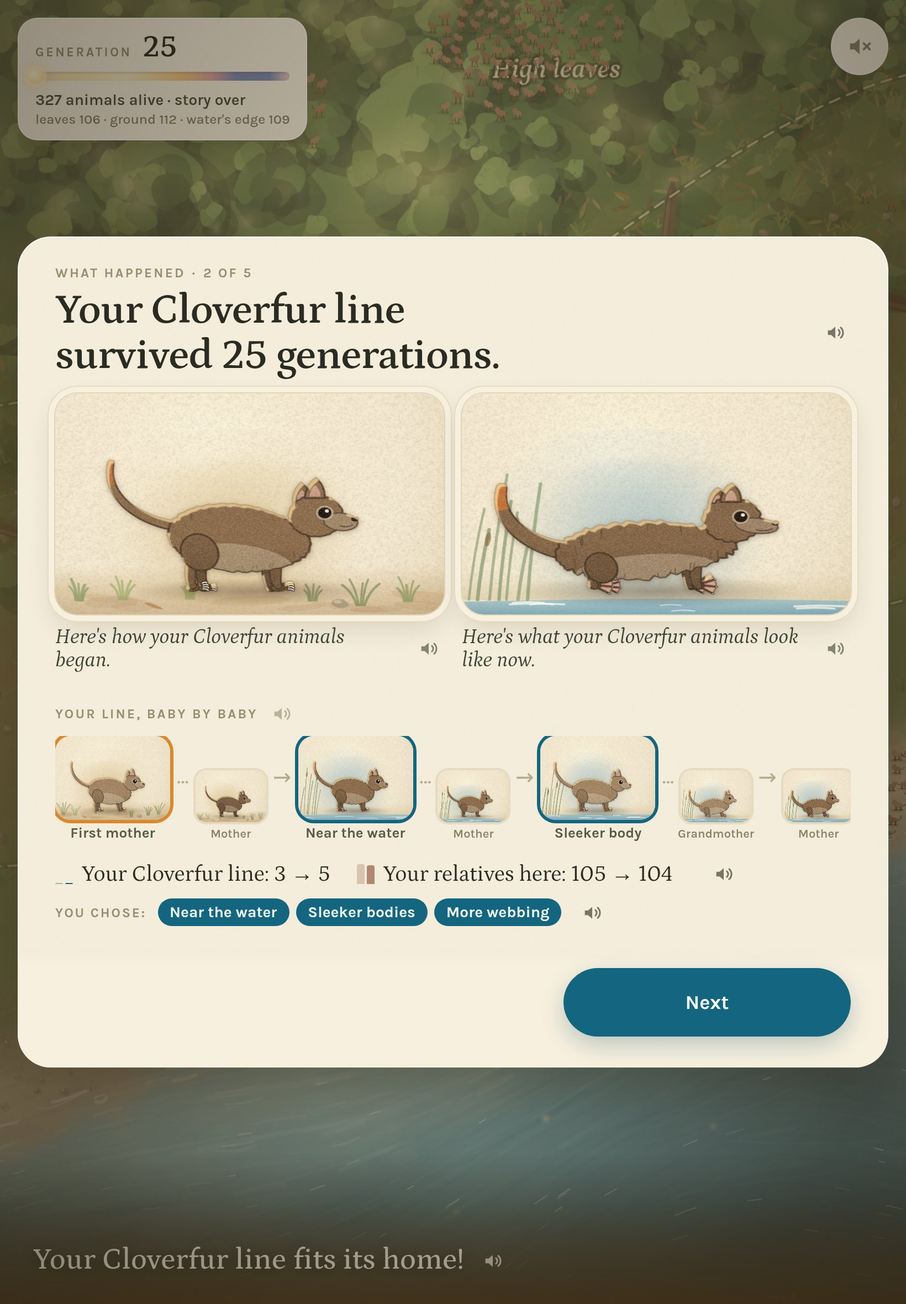
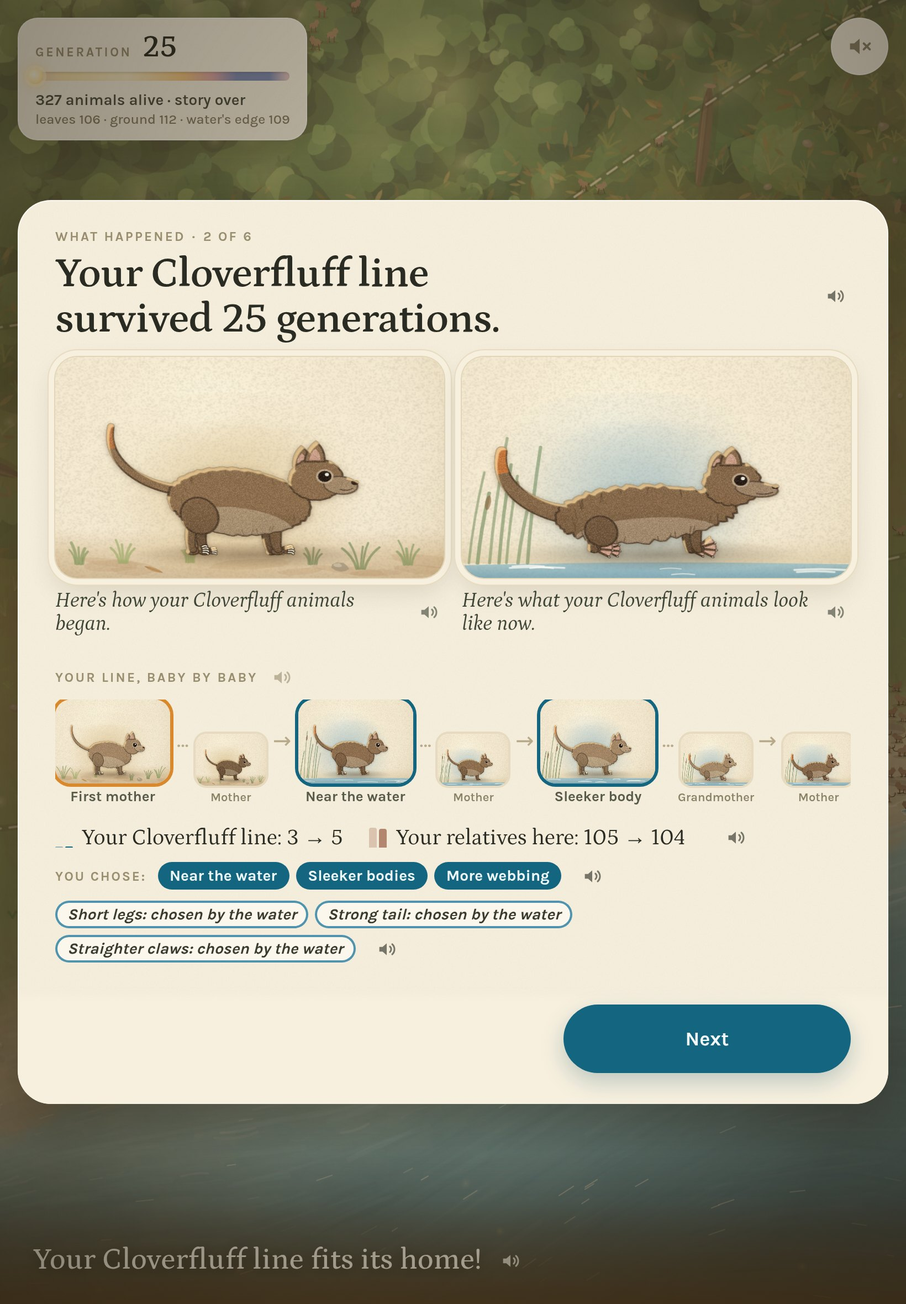
Round 5, Part 4: chosen by the place
Scope decision 75. When a trait the place requires rises in the line
without the child following it (its median APART past where it was at
the place choice, toward the end that helps), it gets a chip in its own
style, outlined in the place's colour: "Strong tail: chosen by the
water" (the trees and the ground likewise). Said once when it first
shows: "The water is choosing too." "Strong tails are winning here."
The win's celebration adds "The water chose a strong tail too."

Measured: a median 2 place chips a story in the leaves and on the
ground, 3 at the water (random child); 1 to 4 for the signature child.
Nothing else changed.

New moment chosen-by-place; win and ending shot again. Tests: game 29
(1 new).

Claude-Session: https://claude.ai/code/session_01GSopAEV6FFZ4i4mLAerJib

diff --git a/game/src/main.js b/game/src/main.js
@@ -30,6 +30,7 @@ import {
 import { familySince, better, differences, placeNow, timeSplit, misfit } from "./groups.js";
 import { isGoodSeed, goodSeed, familiesWithAFuture } from "./seeds.js";
 import { TRAIT_WORDS, averageOf, comparedRows, plainRows } from "./variations.js";
+import { TRAITS } from "./engine.js";
 import { GAP } from "./reveal.js";
 import {
   START_LINE, bornLine, followLine, groupLines, TIMES_UP, optionLine, lastPassed, madeIt, endingTitle, question, choicesHeading,
@@ -41,7 +42,7 @@ import {
   placeLine, ITS_FAMILY, doingLine, DIFFERENT_TITLE, MUCH_LIKE_YOURS, thanYours, misfitLine,
   awayLine, backLine, goBackLine, movingLine, movedLine, IN_TROUBLE, NEARLY_OVER_LINE, soFarTitle, chipWords, fadedLine,
   placeQuestion, PLACE_CARDS, WAIT_GENERATION, PLACE_LABELS, homeLine, homeCounter, WATCH_LINE, homeGoneLine, LOTS_OF_ROOM, fillingLine,
-  firstHereLine, staysLine, CROWDED_GROUND, fitsHome, RESULT_STEP,
+  firstHereLine, staysLine, CROWDED_GROUND, fitsHome, RESULT_STEP, chosenChip, placeChoosing, winningHere,
 } from "./narration.js";
 import { resultFor } from "./win.js";
 import { COLLECTION_TITLE, evolvedLine, IMAGE_CREDITS, GRID, collection, collect, cardEl, pictureOf } from "./collection.js";
@@ -442,6 +443,8 @@ export class Game {
     this.moveToTell = null;
     /** @type {null|number} the line's place filled up, still to be told (scope decision 70) */
     this.fillToTell = null;
+    /** @type {import("./story.js").PlaceChip[]} traits the line's place just chose, still to be told (scope decision 75) */
+    this.placeToTell = [];
     /** @type {Array<{id:number, at:number}>} the line's animals dying now or soon, one by one: the camera stays on each (scope decision 67) */
     this.deathCam = [];
     this.deathCamOn = null;
@@ -550,6 +553,7 @@ export class Game {
     const what = s.afterGeneration(ev);
     if (s.moved) this.moveToTell = s.moved; // told on the next watched generation, or when the fast-forward ends
     if (s.fillingNow) this.fillToTell = s.home.zone; // the line's place filled up: told on arriving, or the next watched generation
+    if (s.placeChoseNow.length) this.placeToTell.push(...s.placeChoseNow); // the place chose a trait: told the next watched generation
     // See, guess, explain: at a follow's result the world waits for a guess (scope decision 60). A line that died out
     // gets its own right there, once its last animals have faded (scope decision 68). Only a new Field Guide discovery
     // is a guess; any other "Why?" is told as a line, with no guess (scope decision 69).
@@ -576,7 +580,7 @@ export class Game {
       const lines = s.told ? s.told : v ? [v.kind === "growing" ? growingLine(v.c.v.group, s.name) : dyingOffLine(v.c.v.group, s.name), ...(q ? [] : [v.reason])] :
         [...groupLines(ev.group, s.noun, [], s.name), ...(q ? [] : s.changeReasons(ev))];
       // The line's place has just filled up: said first, since it is why some die now (scope decision 70).
-      this.say([...this.fillingLines(), ...lines, ...this.moveLines(), ...this.glowLines()], true);
+      this.say([...this.fillingLines(), ...this.placeLines(), ...lines, ...this.moveLines(), ...this.glowLines()], true);
     }
     this.updateHud();
     if (what === "back") this.backing.q = q;
@@ -638,6 +642,16 @@ export class Game {
     const z = this.fillToTell;
     this.fillToTell = null;
     return z === null || z === undefined ? [] : [fillingLine(z)];
+  }
+
+  /**
+   * The line's place chose a trait the child didn't follow (scope decision 75), once, as its chip first shows: "The
+   * water is choosing too." "Strong tails are winning here."
+   */
+  placeLines() {
+    const chosen = this.placeToTell.filter((p) => this.story.placeChips.includes(p));
+    this.placeToTell = [];
+    return chosen.length ? [placeChoosing(chosen[0].zone), winningHere(chosen.map((p) => ({ trait: TRAITS[p.t], dir: p.dir })))] : [];
   }
 
   /** A real move of the family (scope decision 59), once: "Some of your animals are moving to the water's edge." */
@@ -1713,7 +1727,14 @@ export class Game {
         ...picked.map((c) => Object.assign(doc.createElement("span"), { className: c.faded ? "chip faded" : "chip", textContent: c.words })),
         speakerButton(doc, () => `${YOU_CHOSE} ${chips.join(", ")}.`));
     }
-    this.endingResultEl.replaceChildren(result, ...(chips.length ? [chosen] : []));
+    // And what the place chose, in its own style (scope decision 75).
+    const byPlace = s.placeChips.map((p) => chosenChip(TRAITS[p.t], p.dir, p.zone));
+    const placeRow = Object.assign(doc.createElement("div"), { className: "chips" });
+    if (byPlace.length) {
+      placeRow.append(...s.placeChips.map((p, i) => Object.assign(doc.createElement("span"), { className: `chip chosen z${p.zone}`, textContent: byPlace[i] })),
+        speakerButton(doc, () => `${byPlace.join(". ")}.`));
+    }
+    this.endingResultEl.replaceChildren(result, ...(chips.length ? [chosen] : []), ...(byPlace.length ? [placeRow] : []));
     // 2. Your idea.
     this.endingQuestion.set(question(s.outcome, s.noun, s.name));
     this.buildIdea(s);
@@ -2101,7 +2122,7 @@ export class Game {
     if (rowEls.length) rowEls[0].append(speakerButton(this.doc, () => rows.map((r) => `${countLine(r.label, r)}.`).join(" ")));
     this.othersEl.replaceChildren(...rowEls);
     this.othersEl.hidden = !rows.length;
-    this.showSoFar(following && !dying ? s.chips : [], following && !dying ? s.home : null);
+    this.showSoFar(following && !dying ? s.chips : [], following && !dying ? s.home : null, following && !dying ? s.placeChips : []);
     this.showWhyHere(following && !dying ? s.reasons : null);
     if (!s.running) this.barEl.style.width = "0%";
   }
@@ -2148,8 +2169,8 @@ export class Game {
    * the order chosen; a faded one greys out, with its reason as a line below.
    * @param {import("./story.js").Chip[]} chips
    */
-  showSoFar(chips, home = null) {
-    const key = `${this.story?.name}:${this.story?.noun}:${home?.zone}:${chips.map((c) => `${c.v.group}:${c.faded}`).join("|")}`;
+  showSoFar(chips, home = null, placeChips = []) {
+    const key = `${this.story?.name}:${this.story?.noun}:${home?.zone}:${chips.map((c) => `${c.v.group}:${c.faded}`).join("|")}:${placeChips.map((p) => p.t).join(",")}`;
     if (key === this.soFarKey) return;
     this.soFarKey = key;
     const doc = this.doc, el = this.soFarEl;
@@ -2157,12 +2178,15 @@ export class Game {
     if (!chips.length && !home) { el.replaceChildren(); return; }
     const faded = chips.filter((c) => c.faded).map((c) => fadedLine(c.v.group, c.faded));
     const words = soFarTitle(this.story.name, this.story.noun);
-    // The place the child chose comes first (scope decision 70), then each chosen trait.
-    const all = [...(home ? [{ words: PLACE_LABELS[home.zone], faded: null }] : []), ...chips.map((c) => ({ words: chipWords(c.v.group), faded: c.faded }))];
+    // The place the child chose comes first (scope decision 70), then each chosen trait, then what the place chose
+    // (scope decision 75), in their own style.
+    const all = [...(home ? [{ words: PLACE_LABELS[home.zone], faded: null }] : []), ...chips.map((c) => ({ words: chipWords(c.v.group), faded: c.faded })),
+      ...placeChips.map((p) => ({ words: chosenChip(TRAITS[p.t], p.dir, p.zone), faded: null, zone: p.zone }))];
     const title = Object.assign(doc.createElement("div"), { className: "so-far-title", textContent: words });
     title.append(speakerButton(doc, () => `${words}: ${all.map((c) => c.words).join(", ")}.`));
     const row = Object.assign(doc.createElement("div"), { className: "chips" });
-    row.append(...all.map((c) => Object.assign(doc.createElement("span"), { className: c.faded ? "chip faded" : "chip", textContent: c.words })));
+    row.append(...all.map((c) => Object.assign(doc.createElement("span"), {
+      className: c.faded ? "chip faded" : c.zone !== undefined ? `chip chosen z${c.zone}` : "chip", textContent: c.words })));
     el.replaceChildren(title, row, ...faded.map((t) => {
       const p = Object.assign(doc.createElement("p"), { className: "faded-line" });
       p.append(Object.assign(doc.createElement("span"), { className: "text", textContent: t }), speakerButton(doc, () => t));

diff --git a/game/src/story.js b/game/src/story.js
@@ -320,6 +320,13 @@ export class Story {
     this.started = [];
     /** @type {Chip[]} "Your line so far": each chosen trait, and whether it has faded (scope decisions 59 and 68) */
     this.chips = [];
+    /**
+     * @type {PlaceChip[]} "chosen by the place" (scope decision 75): each trait that helps in the line's place and rose
+     * in the line without the child following it
+     */
+    this.placeChips = [];
+    /** @type {PlaceChip[]} those that first showed this generation, for the page to say once */
+    this.placeChoseNow = [];
     /** @type {Map<number, {dir:number, hurt:boolean}>} by trait: the way the line went, and whether it clearly died off that way */
     this.went = new Map();
     /** how many of the line live in each place, a generation ago */
@@ -517,6 +524,7 @@ export class Story {
     this.noticeMoves(mainBefore);
     this.checkHurt();
     this.updateChips();
+    this.notePlaceChoices(ev.generation);
     // The win (scope decision 73): the line fits its home, so no helpful variation is left there. Checked first.
     if (this.home && (this.phase === "watch" || this.phase === "rise") && this.fitsHome()) return this.end("survived", ev.generation, true);
     if (ev.generation >= this.length) return this.end("survived", ev.generation);
@@ -966,6 +974,30 @@ export class Story {
     return out;
   }
 
+  /**
+   * "Chosen by the place" (scope decision 75): a trait that helps in the
+   * line's place, which the child never followed, has risen in the line since
+   * the child chose the place: its median there is APART or more past where it
+   * was then, toward the end that helps. Once shown, it stays, unless the
+   * child follows that trait: then it is the child's chip.
+   */
+  notePlaceChoices(generation) {
+    this.placeChoseNow = [];
+    const h = this.home;
+    if (!h?.form) return;
+    const here = this.lastAnimals.filter((a) => a.zone === h.zone);
+    if (!here.length) return;
+    const form = formOf(here.map((a) => a.genome));
+    form.forEach((f, t) => {
+      const dir = Math.sign(effectIn(t, h.zone));
+      if (!dir || this.chips.some((c) => c.v.t === t) || this.placeChips.some((p) => p.t === t)) return;
+      if ((f.median - h.form[t].median) * dir < APART) return;
+      const chip = { t, dir, zone: h.zone, generation };
+      this.placeChips.push(chip);
+      this.placeChoseNow.push(chip);
+    });
+  }
+
   /** This variation helps in the line's place (scope decision 73). */
   helps(v) { return variationEffect(v.t, v.dir, this.testZone()) > 0; }
 
@@ -1018,8 +1050,10 @@ export class Story {
       sizeAtChoice: ids.length, sizeAtEnd: null, relativesAtChoice: relativesHere, relativesAtEnd: null,
       peak: ids.length, counts: [ids.length], rise: null, result: null, asked: false,
     });
-    // The way the line went on this trait; "Your line so far" gets its chip (a way back replaces the old one).
+    // The way the line went on this trait; "Your line so far" gets its chip (a way back replaces the old one), and a
+    // trait the place chose is the child's now (scope decision 75).
     this.went.set(x.v.t, { dir: x.v.dir, hurt: false });
+    this.placeChips = this.placeChips.filter((p) => p.t !== x.v.t);
     this.chips = this.chips.filter((c) => c.v.t !== x.v.t);
     this.chips.push({ v: x.v, faded: null });
     this.fresh = [];
@@ -1138,6 +1172,8 @@ export class Story {
     this.remember();
     this.placesBefore = this.countPlaces();
     this.formAtPoint = this.lastForm;
+    // The line's usual form at the choice: what the place chooses is measured from here (scope decision 75).
+    this.home.form = this.lastForm;
     this.markNow();
     return this.home;
   }
@@ -1218,6 +1254,7 @@ export class Story {
     this.diedWhy = why.q;
     this.diedSay = why.lines;
     if (home) {
+      this.placeChips = [];
       if (!home.outcome) { home.outcome = "gone"; home.until = generation; }
       home.goneAt = generation;
       this.homeTries.push(home);
@@ -1298,10 +1335,15 @@ export class Story {
  *   reached, the count stopped rising or fell, RISE_MAX generations, fewer than FAST_FROM at the follow (none at all),
  *   some of the line would be crowded out next, the line died out during it, or the story ended
  *
+ * @typedef {Object} PlaceChip a trait the line's place chose (scope decision 75)
+ * @property {number} t @property {number} dir the way it helps there @property {number} zone
+ * @property {number} generation when it first showed
+ *
  * @typedef {Object} Home where the child chose the family will live (scope decision 70)
  * @property {number} zone @property {number} id the baby on the card chosen @property {number} generation when
  * @property {number} mark its number, which marks the relatives it made (HOME_MARK)
  * @property {number} sizeAtChoice the family's animals living there then: the line it began as
+ * @property {Array<{median:number, level:number}>} [form] the line's usual form then
  * @property {number[]} counts the line at the choice and after each generation, until the first follow
  * @property {null|"reached"|"cap"|"gone"} outcome why its fast-forward stopped: PLACE_TO reached, PLACE_MAX generations, or
  *   the line died out during it @property {null|number} until the generation it stopped

diff --git a/game/src/narration.js b/game/src/narration.js
@@ -426,3 +426,29 @@ export const stillChanging = (name = null) => `${capital(your("line", name))} is
 export const KEEP_GOING = "Keep going next time?";
 /** "Your Mossfoot line looks most like a river otter so far." */
 export const resembleLine = (animal, name = null) => `${capital(your("line", name))} looks most like ${anAnimal(animal)} so far.`;
+
+/* ================= chosen by the place (scope decision 75) ================= */
+
+/** Each place, as the one that chooses: "Strong tail: chosen by the water." */
+export const PLACE_BY = ["the trees", "the ground", "the water"];
+/** A trait each place requires, the way it helps there: [on its chip, what is winning, with an article]. */
+const CHOSEN = {
+  toe_webbing: { 1: ["Webbed feet", "webbed feet", "webbed feet"], [-1]: ["No webbing", "toes without webbing", "toes without webbing"] },
+  curved_claws: { 1: ["Curved claws", "curved claws", "curved claws"], [-1]: ["Straighter claws", "straighter claws", "straighter claws"] },
+  long_hindlimbs: { 1: ["Long back legs", "long back legs", "long back legs"], [-1]: ["Short legs", "short legs", "short legs"] },
+  strong_tail: { 1: ["Strong tail", "strong tails", "a strong tail"], [-1]: ["Small tail", "small tails", "a small tail"] },
+  large_eyes: { 1: ["Big eyes", "big eyes", "big eyes"], [-1]: ["Small eyes", "small eyes", "small eyes"] },
+  streamlined_body: { 1: ["Sleek body", "sleek bodies", "a sleek body"], [-1]: ["Round body", "round bodies", "a round body"] },
+  dense_fur: { 1: ["Thick fur", "thick fur", "thick fur"], [-1]: ["Thin fur", "thin fur", "thin fur"] },
+};
+/** "Strong tail: chosen by the water" (a chip in its own style). */
+export const chosenChip = (trait, dir, zone) => `${CHOSEN[trait][dir][0]}: chosen by ${PLACE_BY[zone]}`;
+/** Said once, when such a chip first shows: "The water is choosing too." then "Strong tails are winning here." */
+export const placeChoosing = (zone) => `${capital(PLACE_BY[zone])} is choosing too.`;
+export const winningHere = (chosen) => {
+  const words = chosen.map((c) => CHOSEN[c.trait][c.dir][1]);
+  return `${capital(andList(words))} ${words.length === 1 && / fur$/.test(words[0]) ? "is" : "are"} winning here.`;
+};
+/** In the win's celebration: "The water chose a strong tail too." (at most three, "too" after the child's own follows). */
+export const placeChoseLine = (zone, chosen, too = true) =>
+  `${capital(PLACE_BY[zone])} chose ${andList(chosen.slice(0, 3).map((c) => CHOSEN[c.trait][c.dir][2]))}${too ? " too" : ""}.`;

diff --git a/game/test/win.test.js b/game/test/win.test.js
@@ -106,3 +106,38 @@ test("at the story's last generation short of the win, the line is still changin
   assert.equal(N.followedLine(["more webbing between the toes", "a sleeker body"]), "You followed more webbing and sleeker bodies.");
   assert.equal(N.becameLine(ANIMALS.find((a) => a.id === "arctic-fox"), "Mossfoot"), "Your Mossfoot line became open-ground explorers, like an arctic fox.");
 });
+
+test("chosen by the place: a trait that helps there, risen in the line without a follow, gets its own chip once, and the win says so", async () => {
+  const N = await import("../src/narration.js");
+  const { resultFor } = await import("../src/win.js");
+  const { effectIn } = await import("../src/why.js");
+  const { TRAITS } = await import("../src/engine.js");
+  const all = await stories({ follow: false });
+  let chips = 0, said = 0;
+  for (const { story } of all) {
+    const zone = story.home?.zone;
+    if (zone === undefined) continue;
+    for (const p of story.placeChips) {
+      chips++;
+      // A trait that helps there, the way it helps, which the child never followed.
+      assert.equal(p.zone, zone);
+      assert.equal(Math.sign(effectIn(p.t, zone)), p.dir);
+      assert.ok(!story.chips.some((c) => c.v.t === p.t));
+      assert.equal(story.placeChips.filter((q) => q.t === p.t).length, 1, "once");
+      const words = [N.chosenChip(TRAITS[p.t], p.dir, zone), N.placeChoosing(zone), N.winningHere([{ trait: TRAITS[p.t], dir: p.dir }])];
+      for (const line of words) assert.ok(line.split(/\s+/).length <= 13 && !/%|percent/i.test(line), line);
+    }
+    if (story.won && story.placeChips.length) {
+      said++;
+      const chosen = story.placeChips.map((p) => ({ trait: TRAITS[p.t], dir: p.dir }));
+      assert.ok(resultFor(story).lines.includes(N.placeChoseLine(zone, chosen, story.chips.length > 0)));
+    }
+  }
+  assert.ok(chips >= 9, `${chips} chips`);
+  assert.ok(said > 0, "a win says what the place chose");
+  assert.equal(N.chosenChip("strong_tail", 1, 2), "Strong tail: chosen by the water");
+  assert.equal(N.winningHere([{ trait: "strong_tail", dir: 1 }]), "Strong tails are winning here.");
+  assert.equal(N.placeChoseLine(2, [{ trait: "strong_tail", dir: 1 }]), "The water chose a strong tail too.");
+  assert.equal(N.placeChoseLine(0, [{ trait: "curved_claws", dir: 1 }, { trait: "toe_webbing", dir: -1 }, { trait: "streamlined_body", dir: -1 }]),
+    "The trees chose curved claws, toes without webbing and a round body too.");
+});

diff --git a/game/src/win.js b/game/src/win.js
@@ -6,15 +6,15 @@
  * helpful variation is left to find there (a variation is APART past the
  * line's usual). The story ends there, with a celebration: the animal the
  * line became, from its actual traits (reveal.js), what the child followed and
- * why it helped, the animal's "Did you know?", and that almost any new change
- * would make things worse now. A story that reaches its last generation short
+ * why it helped, what the place chose too (scope decision 75), the animal's
+ * "Did you know?", and that almost any new change would make things worse now. A story that reaches its last generation short
  * of the win says the line is still changing, and which animal it looks most
  * like so far.
  */
 
 import { TRAITS } from "./engine.js";
 import { variationEffect, whyLine } from "./why.js";
-import { WIN_TITLE, becameLine, followedLine, fitsNow, ANY_CHANGE_WORSE, stillChanging, KEEP_GOING, resembleLine } from "./narration.js";
+import { WIN_TITLE, becameLine, followedLine, fitsNow, ANY_CHANGE_WORSE, stillChanging, KEEP_GOING, resembleLine, placeChoseLine } from "./narration.js";
 
 /** At most this many of the chosen traits are named in "You followed …". */
 export const FOLLOWED_NAMED = 3;
@@ -42,6 +42,9 @@ export function resultFor(story) {
       if (like && !lines.includes(like.text)) { lines.push(like.text); break; }
     }
   }
+  // What the place chose that the child didn't follow (scope decision 75): "The water chose a strong tail too."
+  const chosen = story.placeChips.filter((p) => p.zone === zone).map((p) => ({ trait: TRAITS[p.t], dir: p.dir }));
+  if (chosen.length) lines.push(placeChoseLine(zone, chosen, followed.length > 0));
   lines.push(...animal.facts.slice(0, 1), fitsNow(zone, story.name), ANY_CHANGE_WORSE);
   return { won: true, title: WIN_TITLE, lines };
 }

diff --git a/game/src/moments.js b/game/src/moments.js
@@ -41,7 +41,7 @@ export const MOMENTS = [
   "same", "back", "go-back", "so-far", "another-family", "nearly-over",
   "reason", "why", "why-answer", "told", "type-name", "my-name", "average",
   "ending-idea", "ending-check", "ending-reveal", "story-card", "discovery", "guide", "leaves", "map",
-  "win", "still-changing", "collection",
+  "win", "still-changing", "collection", "chosen-by-place",
 ];
 
 /**
@@ -291,6 +291,15 @@ const MOMENT = {
   "still-changing": {
     families: FROM_OTHERS, policies: ["passive", "active"],
     at: (s, ev, b, what) => what === "ended" && s.outcome === "survived" && !s.won && !!s.home,
+  },
+  /**
+   * Chosen by the place (scope decision 75): a trait that helps in the line's place rose in the line without the child
+   * following it. Its chip shows in its own style on "Your … line so far", and it is said once: "The water is choosing
+   * too." "Strong tails are winning here." Found at the watched generation that says it.
+   */
+  "chosen-by-place": {
+    families: FROM_OTHERS, policies: ["active", "passive"],
+    at: (s, ev, b, what) => what === null && s.phase === "watch" && s.placeChoseNow.length > 0 && { chosen: s.placeChoseNow.map((p) => p.t) },
   },
   /**
    * The collection after the win (scope decision 74): the ending's last step, the twelve cards with the animal the line

diff --git a/game/moments.html b/game/moments.html
@@ -106,6 +106,7 @@
     <li><a data-moment="leaves" href="./?moment=leaves"><b>Visiting the leaves</b><span>Its animals on branches among the leaves.</span></a></li>
     <li><a data-moment="map" href="./?moment=map"><b>The map</b><span>Zoomed out: the places' names and the borders between them.</span></a></li>
     <li><a data-moment="win" href="./?moment=win"><b>The win</b><span>Your line fits its home: "You did it!", the animal it became, what you followed and why.</span></a></li>
+    <li><a data-moment="chosen-by-place" href="./?moment=chosen-by-place"><b>Chosen by the place</b><span>A trait that helps here rose in your line without a follow: its own chip, and “The water is choosing too.”</span></a></li>
     <li><a data-moment="collection" href="./?moment=collection"><b>The collection</b><span>After the win: the twelve animals, the one your line became marked “New!”, the rest mystery cards.</span></a></li>
     <li><a data-moment="still-changing" href="./?moment=still-changing&amp;length=25"><b>Still changing</b><span>The story's last generation, short of the win: "Keep going next time?" and the animal it looks most like.</span></a></li>
   </ol>

diff --git a/game/styles.css b/game/styles.css
@@ -287,6 +287,11 @@ html { -webkit-text-size-adjust: 100%; text-size-adjust: 100%; } /* a phone turn
 #hud #so-far .chip { padding: 3px 9px; border-radius: 99px; background: #14657F; color: #EFFAFD; font-size: 12.5px; font-weight: 700; }
 #hud #so-far .chip.faded { background: #E4DCCB; color: #8F866F; text-decoration: line-through; text-decoration-thickness: 1.5px; }
 #hud #so-far .faded-line { margin: 4px 0 0; font-size: 12.5px; font-weight: 600; color: #7D745C; }
+/* A trait the place chose (scope decision 75): outlined in the place's colour, not filled. */
+.chip.chosen { background: #FBF7EC !important; color: #3A3B30 !important; box-shadow: inset 0 0 0 2px var(--place, #9A8E70); font-style: italic; }
+.chip.chosen.z0 { --place: #4F7A45; }
+.chip.chosen.z1 { --place: #A8864F; }
+.chip.chosen.z2 { --place: #4F93AE; }
 @keyframes ffPulse { from { opacity: .7; } to { opacity: 1; } }
 
 .eyebrow { font-size: 12px; font-weight: 700; letter-spacing: 1.8px; text-transform: uppercase; color: #9A8E70; }

diff --git a/design/compare.html b/design/compare.html
@@ -109,6 +109,7 @@
     ["ground", "Visiting the ground", "Open ground, with its name and borders on the map.", false, "the playtest fixes"],
     ["leaves", "Visiting the leaves", "New with the next round: animals on branches among the leaves.", false, R],
     ["map", "The map", "New with the next round: the places' names and the borders between them.", false, R],
+    ["chosen-by-place", "Chosen by the place", "New with Round 5: a trait that helps rose in your line without a follow, “Strong tail: chosen by the water”.", false, G],
     ["win", "The win", "New with Round 5: your line fits its home. “You did it!”, the animal it became, what you followed and why.", false, G],
     ["collection", "The collection", "New with Round 5: after the win, the twelve animals you can become, yours marked “New!”, the rest mystery cards.", false, G],
     ["still-changing", "Still changing", "New with Round 5: the story's last generation, short of the win: “Keep going next time?”", false, G],

diff --git a/LINEAGE_M2_CLASSROOM_SCOPE.md b/LINEAGE_M2_CLASSROOM_SCOPE.md
@@ -776,6 +776,14 @@ LINEAGE should feel like a quiet nature documentary. It is set at golden hour an
    - *Frame times (as decision 73): `collection` 29.1 ms (167.4 with a 4× slower CPU) against main's ending reveal 37.1 (188.8); `win`, now with the card, 36.0 (181.5) against main's ending 39.2 (189.5).*
    - *Checked: 28 game tests, 2 new (`collection.test.js`: twelve cards, a row of four for each place, every picture a JPEG about 400 px wide and under 60 KB, the journal page's list the same twelve in the same order; an animal joins once, the first mammals never, and the collection lasts the page with storage blocked). The start screen's button and panel checked in headless Chromium at all three sizes, with three animals seeded in storage ("3/12").*
 
+75. **"Chosen by the place"** (2026-10-02, the architect's Round 5, Part 4; built by Claude Code).
+   - **When** (`story.js` `notePlaceChoices`). Once the child chose a place, each generation: a trait the place requires (it helps there, decision 72), which the child never followed, has risen in the line since the place choice: its median in the place is APART (0.12) or more past where it was then, toward the end that helps. Then it gets a chip in its own style, outlined in the place's colour and in italics, after the child's chips on "Your … line so far" and on the ending's first page: "Strong tail: chosen by the water" ("by the trees", "by the ground" likewise; `narration.js` `chosenChip`). Once shown it stays, unless the child follows that trait later: then it is the child's chip. A line whose place died out forgets them.
+   - **Said once**, the first watched generation after the chip shows: "The water is choosing too." then "Strong tails are winning here." (two at once: "Strong tails and short legs are winning here."). And the win's celebration says it after what the child followed: "The water chose a strong tail too." (at most three; no "too" when the child followed nothing).
+   - **Moment:** new `chosen-by-place` (seed 13: "Short legs: chosen by the water", generation 8). `win` and `ending` shot again: the celebration's new line, and the ending's first page with the place's chips under "You chose".
+   - *Measured (as decision 72, the game's own code, to the win or 8 minutes): chips chosen by the place per story, a median 2 in the leaves and on the ground and 3 at the water for the child following random glows (10th–90th: 1–3, 1–2, 2–4); 1 to 4 for the child following a signature (1 on the ground, 2 in the leaves, 3–4 at the water, where five traits are required). Nothing else changed: every result of decision 73's measurement is the same.*
+   - *Frame times (as decision 73): `chosen-by-place` 36.0 ms (206.4 with a 4× slower CPU) against main's `generation` 41.3 (209.4).*
+   - *Checked: 29 game tests, 1 new (each place chip is a trait that helps there, the way it helps, never one the child followed, shown once; its lines short; a win with place chips says them). The lines read with the longest family name.*
+
 ## What the engine already gives you (do not rebuild these)
 
 - `advanceGeneration(state, config, hooks)` — runs one generation; `hooks` receive birth and death events.

diff --git a/design/after/README.md b/design/after/README.md
@@ -1,5 +1,7 @@
 # LINEAGE — the live build, moment by moment (after Step 5)
 
+**Round 5, Part 4 (scope decision 75):** `chosen-by-place` is new: a trait that helps in the line's place rose in it without a follow, "Short legs: chosen by the water" as an outlined chip on "Your … line so far", and "The water is choosing too." (1.5 s). `win` and `ending` are shot again: "The water chose short legs, a strong tail and straighter claws too." in the celebration, and the place's chips under "You chose". The rest are Part 3's pictures.
+
 **Round 5, Part 3 (scope decision 74):** `collection` is new: after the win, the ending's last step shows the twelve cards, the animal the line just became "New!" with its picture, the rest mystery cards with their place's mark ("You've evolved 1 of 12.", 2.5 s). `win`, `still-changing` and `ending-reveal` are shot again: the real animal's card beside the line's drawing, and its picture in the reveal. The rest are Part 2's pictures.
 
 **Round 5, Part 2 (scope decision 73):** `win` is new: the line fits its home, and the ending opens on "You did it!", the line's drawing in gold, the animal it became, what the child followed and why, the animal's "Did you know?", and "Your … line fits the water's edge now." (3.5 s). `still-changing` is new: a 25-generation story ends short of the win, "Your … line is still changing." "Keep going next time?" and the animal it looks most like so far (3 s). `ending`, `ending-idea`, `ending-check`, `ending-reveal` and `story-card` are shot again: their stories now end with the win, so they are steps 2 to 5 of 5; and `choice`, whose panel always has an option that helps now. The rest are Part 1's pictures.

diff --git a/game/README.md b/game/README.md
@@ -109,7 +109,10 @@ A story takes a median 14.7 minutes, with a median of 5 traits added up and 5 "W
    small and grey. Only the line's babies glow, and the traits add up on "Your Mossfoot line so
    far", after the place chosen ("Near the water"); each animal of the line has each one, so none
    fades. A glowing trait that doesn't matter there also stands out from the whole world at the
-   start: those traits decide which animal the line becomes. "Your line" replaces "your family" from the
+   start: those traits decide which animal the line becomes. A trait that helps in the line's
+   place and rose in it without a follow gets its own outlined chip, "Strong tail: chosen by the
+   water", said once: "The water is choosing too." "Strong tails are winning here." (scope decision
+   75). "Your line" replaces "your family" from the
    place choice on, and the tree strip becomes "Your line, baby by baby" (`TREE_BETWEEN`), the
    baby on the chosen place's card its first step. Once a place is chosen, a baby of the line born
    in another place is a relative: the line always lives in one place (scope decision 70).
